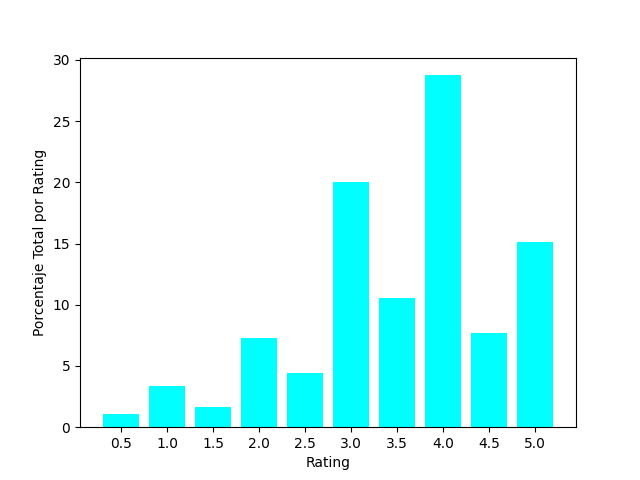
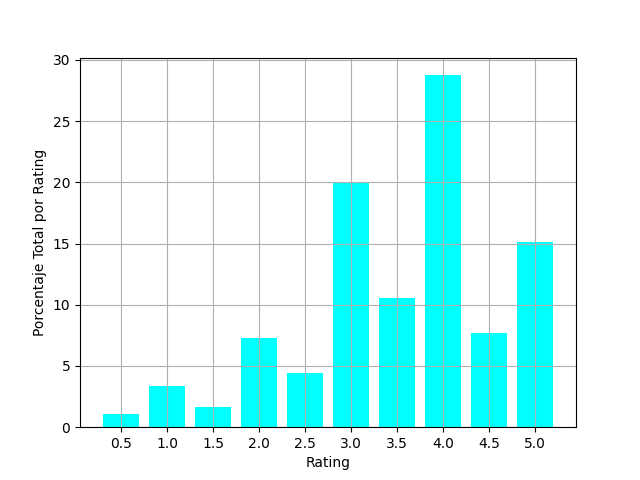
Thesis 99.9% completed

diff --git a/Code/Matrix Factorization/movielens.py b/Code/Matrix Factorization/movielens.py
@@ -5,10 +5,9 @@ import matplotlib.pyplot as plt
 from surprise import Reader, Dataset, SVD
 
 df_ratings = pd.read_csv('ratings_small.csv', usecols=[0, 1, 2])
-
-print("Number of rows {0} in ratings".format(df_ratings.shape[0]))
-user_count = df_ratings['user_id'].nunique()
-movie_count = df_movies["item_id"].nunique()
+print("Number of ratings: {0}".format(df_ratings.shape[0]))
+user_count = df_ratings['UserId'].nunique()
+movie_count = df_ratings["ItemId"].nunique()
 print("Number of users: {0}".format(user_count))
 print("Number of movies: {0}".format(movie_count))
 
@@ -20,7 +19,7 @@ print(df_ratings.describe())
 #plt.boxplot(df_ratings['rating'])
 #plt.show()
 
-ratings_list = df_ratings['rating'].tolist()
+ratings_list = df_ratings['Rating'].tolist()
 d = 1/2
 left_of_first_bin = min(ratings_list) - d/2
 right_of_last_bin = max(ratings_list) + d/2
@@ -34,7 +33,7 @@ plt.grid()
 plt.show()
 
 #Distribution of ratings
-p = df_ratings.groupby('rating')['rating'].agg(['count'])
+p = df_ratings.groupby('Rating')['Rating'].agg(['count'])
 ratings = []
 for i in np.arange(0.5, 5.5, 0.5):
     ratings.append(str(i))
@@ -46,4 +45,5 @@ plt.clf()
 plt.bar(ratings, rating_percentage, color="cyan")
 plt.xlabel('Rating')
 plt.ylabel('Porcentaje Total por Rating')
+plt.grid()
 plt.show()

diff --git a/main.tex b/main.tex
@@ -11,8 +11,7 @@
 
 \section{Tareas Pendientes}
 \begin{itemize}
-    \item Añadir al marco teorico las nuevas medidas de grafo (ecuaciones).
-    \item Terminar el documento (conclusiones).
+    \item Revisar el documento con los directores.
 \end{itemize}
 
 \end{document}
